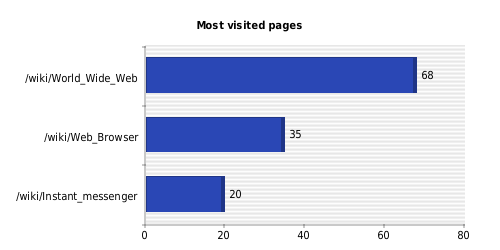
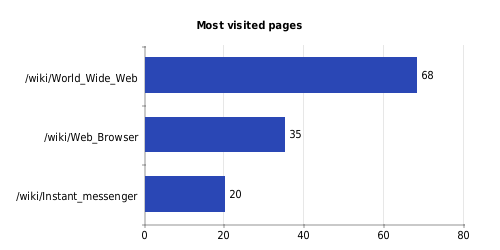
beauty charts

diff --git a/Wobeto/EasyChart/VerticalBarChart.php b/Wobeto/EasyChart/VerticalBarChart.php
@@ -18,6 +18,7 @@
 
     use Wobeto\EasyChart\View\Caption\Caption;
     use Wobeto\EasyChart\View\Primitive\Padding;
+    use Wobeto\EasyChart\View\Color\Color;
 
     class VerticalBarChart extends BarChart {
         /**
@@ -52,21 +53,28 @@
          * Print the horizontal and veritcal axis.
          */
         protected function printAxis() {
-            $minValue = $this->axis->getLowerBoundary();
-            $maxValue = $this->axis->getUpperBoundary();
+            $minValue  = $this->axis->getLowerBoundary();
+            $maxValue  = $this->axis->getUpperBoundary();
             $stepValue = $this->axis->getTics();
-
+            
             // Get graphical obects
-            $img = $this->plot->getImg();
-            $palette = $this->plot->getPalette();
-            $text = $this->plot->getText();
+            $img       = $this->plot->getImg();
+            $palette   = $this->plot->getPalette();
+            $text      = $this->plot->getText();
+            $primitive = $this->plot->getPrimitive();
             
             // Get the graph area
             $graphArea = $this->plot->getGraphArea();
+
+            $color = $palette->backgroundColor[1];
             
             // Vertical axis
             for ($value = $minValue; $value <= $maxValue; $value += $stepValue) {
                 $y = $graphArea->y2 - ($value - $minValue) * ($graphArea->y2 - $graphArea->y1) / ($this->axis->displayDelta);
+
+                if($value != 0){
+                    $primitive->line($graphArea->x1, ($y + 0.5), $graphArea->x2, ($y - 0.5), $color);
+                }
 
                 imagerectangle($img, $graphArea->x1 - 3, $y, $graphArea->x1 - 2, $y + 1, $palette->axisColor[0]->getColor($img));
                 imagerectangle($img, $graphArea->x1 - 1, $y, $graphArea->x1, $y + 1, $palette->axisColor[1]->getColor($img));
@@ -167,11 +175,11 @@
                     }
 
                     // Draw the vertical bar
-                    imagefilledrectangle($img, $x1, $ymin, $x2, $graphArea->y2 - 1, $shadowColor->getColor($img));
+                    imagefilledrectangle($img, $x1, $ymin, $x2, $graphArea->y2, $shadowColor->getColor($img));
 
                     // Prevents drawing a small box when y = 0
                     if ($ymin != $graphArea->y2) {
-                        imagefilledrectangle($img, $x1 + 1, $ymin + 1, $x2 - 4, $graphArea->y2 - 1, $color->getColor($img));
+                        imagefilledrectangle($img, $x1, $ymin, $x2, $graphArea->y2, $color->getColor($img));
                     }
                 }
             }

diff --git a/Wobeto/EasyChart/HorizontalBarChart.php b/Wobeto/EasyChart/HorizontalBarChart.php
@@ -52,21 +52,28 @@
          * Print the axis.
          */
         protected function printAxis() {
-            $minValue = $this->axis->getLowerBoundary();
-            $maxValue = $this->axis->getUpperBoundary();
+            $minValue  = $this->axis->getLowerBoundary();
+            $maxValue  = $this->axis->getUpperBoundary();
             $stepValue = $this->axis->getTics();
-
+            
             // Get graphical obects
-            $img = $this->plot->getImg();
-            $palette = $this->plot->getPalette();
-            $text = $this->plot->getText();
+            $img       = $this->plot->getImg();
+            $palette   = $this->plot->getPalette();
+            $text      = $this->plot->getText();
+            $primitive = $this->plot->getPrimitive();
             
             // Get the graph area
             $graphArea = $this->plot->getGraphArea();
+            
+            $color     = $palette->backgroundColor[1];
 
             // Horizontal axis
             for ($value = $minValue; $value <= $maxValue; $value += $stepValue) {
                 $x = $graphArea->x1 + ($value - $minValue) * ($graphArea->x2 - $graphArea->x1) / ($this->axis->displayDelta);
+
+                if($value != 0){
+                    $primitive->line(($x - 1), $graphArea->y1,  ($x - 1), $graphArea->y2, $color);
+                }                
 
                 imagerectangle($img, $x - 1, $graphArea->y2 + 2, $x, $graphArea->y2 + 3, $palette->axisColor[0]->getColor($img));
                 imagerectangle($img, $x - 1, $graphArea->y2, $x, $graphArea->y2 + 1, $palette->axisColor[1]->getColor($img));
@@ -168,11 +175,11 @@
                     }
                     
                     // Draw the horizontal bar
-	                imagefilledrectangle($img, $graphArea->x1 + 1, $y1, $xmax, $y2, $shadowColor->getColor($img));
+	                imagefilledrectangle($img, $graphArea->x1, $y1, $xmax, $y2, $shadowColor->getColor($img));
                     
 	                // Prevents drawing a small box when x = 0
                     if ($graphArea->x1 != $xmax) {
-                        imagefilledrectangle($img, $graphArea->x1 + 2, $y1 + 1, $xmax - 4, $y2, $color->getColor($img));
+                        imagefilledrectangle($img, $graphArea->x1, $y1, $xmax, $y2, $color->getColor($img));
                     }
                 }
             }

diff --git a/Wobeto/EasyChart/PieChart.php b/Wobeto/EasyChart/PieChart.php
@@ -89,30 +89,6 @@
         }
 
         /**
-         * Creates the pie chart image.
-         */
-        protected function createImage() {
-            parent::createImage();
-
-            // Get graphical obects
-            $img = $this->plot->getImg();
-            $palette = $this->plot->getPalette();
-            $primitive = $this->plot->getPrimitive();
-            
-            // Get the graph area
-            $graphArea = $this->plot->getGraphArea();
-
-            // Legend box
-            $primitive->outlinedBox($graphArea->x1, $graphArea->y1, $graphArea->x2, $graphArea->y2, $palette->axisColor[0], $palette->axisColor[1]);
-
-            // Aqua-like background
-            for ($i = $graphArea->y1 + 2; $i < $graphArea->y2 - 1; $i++) {
-                $color = $palette->backgroundColor[($i + 3) % 4];
-                $primitive->line($graphArea->x1 + 2, $i, $graphArea->x2 - 2, $i, $color);
-            }
-        }
-
-        /**
          * Renders the caption.
          */
         protected function printCaption() {
@@ -161,10 +137,10 @@
                     continue;
                 }
                 
-                $color = $colorArray[$i % count($colorArray)];
-
+                $color        = $colorArray[$i % count($colorArray)];
+                
                 $percentTotal += $percent;
-                $newAngle = $percentTotal * 360 / 100;
+                $newAngle     = $percentTotal * 360 / 100;
 
                 // imagefilledarc doesn't like null values (#1)
                 if ($newAngle - $oldAngle >= 1) {
@@ -172,7 +148,6 @@
                 }
 
                 $oldAngle = $newAngle;
-
                 $i++;
             }
         }
@@ -233,11 +208,6 @@
             // Get the pie color set
             $pieColorSet = $palette->pieColorSet;
             $pieColorSet->reset();
-
-            // Silhouette
-            for ($cy = $this->pieCenterY + $this->pieDepth / 2; $cy >= $this->pieCenterY - $this->pieDepth / 2; $cy--) {
-                $this->drawDisc($cy, $palette->pieColorSet->shadowColorList, IMG_ARC_EDGED);
-            }
 
             // Top
             $this->drawDisc($this->pieCenterY - $this->pieDepth / 2, $palette->pieColorSet->colorList, IMG_ARC_PIE);

diff --git a/Wobeto/EasyChart/LineChart.php b/Wobeto/EasyChart/LineChart.php
@@ -47,21 +47,28 @@
          * Print the axis.
          */
         protected function printAxis() {
-            $minValue = $this->axis->getLowerBoundary();
-            $maxValue = $this->axis->getUpperBoundary();
+            $minValue  = $this->axis->getLowerBoundary();
+            $maxValue  = $this->axis->getUpperBoundary();
             $stepValue = $this->axis->getTics();
-
+            
             // Get graphical obects
-            $img = $this->plot->getImg();
-            $palette = $this->plot->getPalette();
-            $text = $this->plot->getText();
+            $img       = $this->plot->getImg();
+            $palette   = $this->plot->getPalette();
+            $text      = $this->plot->getText();
+            $primitive = $this->plot->getPrimitive();
             
             // Get the graph area
             $graphArea = $this->plot->getGraphArea();
             
+            $color     = $palette->backgroundColor[1];
+            
             // Vertical axis
             for ($value = $minValue; $value <= $maxValue; $value += $stepValue) {
                 $y = $graphArea->y2 - ($value - $minValue) * ($graphArea->y2 - $graphArea->y1) / ($this->axis->displayDelta);
+
+                if($value != 0){
+                    $primitive->line($graphArea->x1, ($y + 0.5), $graphArea->x2, ($y - 0.5), $color);
+                }                
 
                 imagerectangle($img, $graphArea->x1 - 3, $y, $graphArea->x1 - 2, $y + 1, $palette->axisColor[0]->getColor($img));
                 imagerectangle($img, $graphArea->x1 - 1, $y, $graphArea->x1, $y + 1, $palette->axisColor[1]->getColor($img));
@@ -138,8 +145,7 @@
 
                     // Draw line 
                     if ($x1) {
-                        $primitive->line($x1, $y1, $x2, $y2, $lineColor, 4);
-                        $primitive->line($x1, $y1 - 1, $x2, $y2 - 1, $lineColorShadow, 2);
+                        $primitive->line($x1, $y1, $x2, $y2, $lineColor, 3);
                     }
                     
                     $x1 = $x2;

diff --git a/Wobeto/EasyChart/BarChart.php b/Wobeto/EasyChart/BarChart.php
@@ -56,21 +56,15 @@
             parent::createImage();
 
             // Get graphical obects
-            $img = $this->plot->getImg();
-            $palette = $this->plot->getPalette();
-            $text = $this->plot->getText();
+            $img       = $this->plot->getImg();
+            $palette   = $this->plot->getPalette();
+            $text      = $this->plot->getText();
             $primitive = $this->plot->getPrimitive();
             
             // Get the graph area
             $graphArea = $this->plot->getGraphArea();
 
-            // Aqua-like background
-            for ($i = $graphArea->y1; $i < $graphArea->y2; $i++) {
-                $color = $palette->backgroundColor[($i + 3) % 4];
-                $primitive->line($graphArea->x1, $i, $graphArea->x2, $i, $color);
-            }
-
-            // Axis
+            // Axis (X/Y)
             imagerectangle($img, $graphArea->x1 - 1, $graphArea->y1, $graphArea->x1, $graphArea->y2, $palette->axisColor[0]->getColor($img));
             imagerectangle($img, $graphArea->x1 - 1, $graphArea->y2, $graphArea->x2, $graphArea->y2 + 1, $palette->axisColor[0]->getColor($img));
         }

diff --git a/Wobeto/EasyChart/View/Caption/Caption.php b/Wobeto/EasyChart/View/Caption/Caption.php
@@ -58,7 +58,7 @@
                 $boxY2 = $boxY1 + $this->labelBoxHeight;
 
                 $primitive->outlinedBox($boxX1, $boxY1, $boxX2, $boxY2, $palette->axisColor[0], $palette->axisColor[1]);
-                imagefilledrectangle($img, $boxX1 + 2, $boxY1 + 2, $boxX2 - 2, $boxY2 - 2, $color->getColor($img));
+                imagefilledrectangle($img, $boxX1, $boxY1, $boxX2, $boxY2, $color->getColor($img));
 
                 $text->printText($img, $boxX2 + 5, $boxY1 + $this->labelBoxHeight / 2, $this->plot->getTextColor(), $label, $text->fontCondensed, $text->VERTICAL_CENTER_ALIGN);
 

diff --git a/Wobeto/EasyChart/View/Color/Color.php b/Wobeto/EasyChart/View/Color/Color.php
@@ -32,10 +32,10 @@
          * @param integer alpha [0..255]
          */
         public function __construct($red, $green, $blue, $alpha = 0) {
-            $this->red = (int) $red;
-            $this->green = (int) $green;
-            $this->blue = (int) $blue;
-            $this->alpha = (int) round($alpha * 127.0 / 255);
+            $this->red     = (int) $red;
+            $this->green   = (int) $green;
+            $this->blue    = (int) $blue;
+            $this->alpha   = (int) round($alpha * 127.0 / 255);
         }
         
         /**

diff --git a/Wobeto/EasyChart/View/Primitive/Rectangle.php b/Wobeto/EasyChart/View/Primitive/Rectangle.php
@@ -16,6 +16,8 @@
     
     namespace Wobeto\EasyChart\View\Primitive;
 
+    use Wobeto\EasyChart\View\Primitive\Padding;
+
     class Rectangle {
         /**
          * Top left X.
@@ -58,7 +60,7 @@
          *
          * @return Padded rectangle
          */
-        public function getPaddedRectangle($padding) {
+        public function getPaddedRectangle(Padding $padding) {
             $rectangle = new Rectangle(
                     $this->x1 + $padding->left,
                     $this->y1 + $padding->top,

diff --git a/Wobeto/EasyChart/Chart.php b/Wobeto/EasyChart/Chart.php
@@ -39,6 +39,8 @@
          */
         protected $plot;
 
+        protected $vertical_axis = array();
+
         /**
          * Abstract constructor of Chart.
          *
